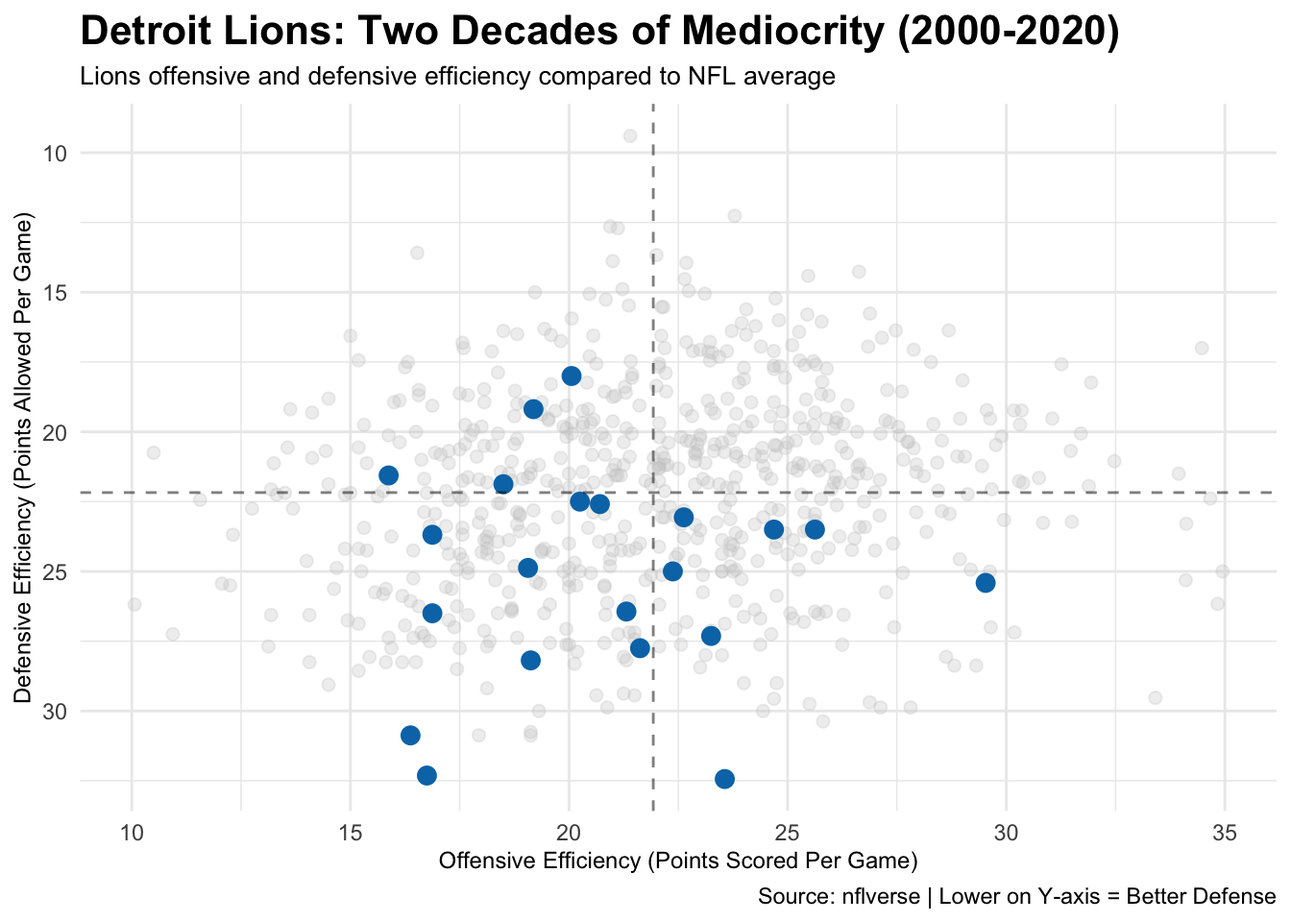
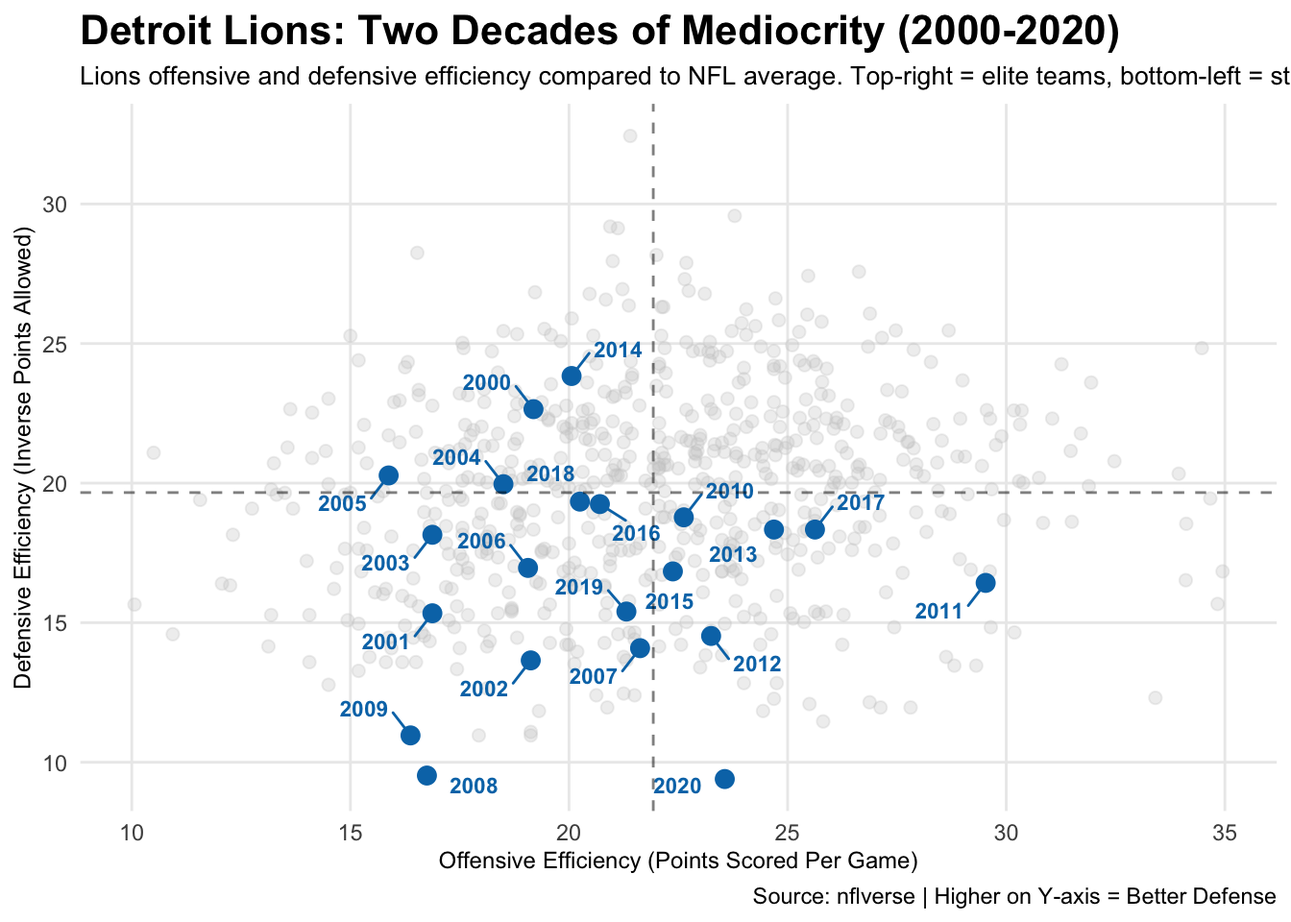
DanTest2

diff --git a/posts/DetroitLions/index.html b/posts/DetroitLions/index.html
@@ -225,79 +225,94 @@ pre > code.sourceCode > span > a:first-child::before { text-decoration: underlin
 </div>
 <details class="code-fold">
 <summary>Code</summary>
-<div class="sourceCode cell-code" id="cb5"><pre class="sourceCode r code-with-copy"><code class="sourceCode r"><span id="cb5-1"><a href="#cb5-1" aria-hidden="true" tabindex="-1"></a><span class="co"># Load schedules data for all seasons</span></span>
-<span id="cb5-2"><a href="#cb5-2" aria-hidden="true" tabindex="-1"></a>pre_campbell <span class="ot">&lt;-</span> <span class="fu">load_schedules</span>(<span class="dv">2000</span><span class="sc">:</span><span class="dv">2020</span>)</span>
-<span id="cb5-3"><a href="#cb5-3" aria-hidden="true" tabindex="-1"></a>campbell_era <span class="ot">&lt;-</span> <span class="fu">load_schedules</span>(<span class="dv">2021</span><span class="sc">:</span><span class="dv">2024</span>)</span>
-<span id="cb5-4"><a href="#cb5-4" aria-hidden="true" tabindex="-1"></a></span>
-<span id="cb5-5"><a href="#cb5-5" aria-hidden="true" tabindex="-1"></a><span class="co"># Function to calculate offensive and defensive efficiency</span></span>
-<span id="cb5-6"><a href="#cb5-6" aria-hidden="true" tabindex="-1"></a>calculate_efficiency <span class="ot">&lt;-</span> <span class="cf">function</span>(schedules_data) {</span>
-<span id="cb5-7"><a href="#cb5-7" aria-hidden="true" tabindex="-1"></a>  <span class="co"># Home team stats</span></span>
-<span id="cb5-8"><a href="#cb5-8" aria-hidden="true" tabindex="-1"></a>  home_stats <span class="ot">&lt;-</span> schedules_data <span class="sc">|&gt;</span></span>
-<span id="cb5-9"><a href="#cb5-9" aria-hidden="true" tabindex="-1"></a>    <span class="fu">select</span>(season, <span class="at">team =</span> home_team, </span>
-<span id="cb5-10"><a href="#cb5-10" aria-hidden="true" tabindex="-1"></a>           <span class="at">points_scored =</span> home_score, </span>
-<span id="cb5-11"><a href="#cb5-11" aria-hidden="true" tabindex="-1"></a>           <span class="at">points_allowed =</span> away_score) <span class="sc">|&gt;</span></span>
-<span id="cb5-12"><a href="#cb5-12" aria-hidden="true" tabindex="-1"></a>    <span class="fu">filter</span>(<span class="sc">!</span><span class="fu">is.na</span>(points_scored))</span>
-<span id="cb5-13"><a href="#cb5-13" aria-hidden="true" tabindex="-1"></a>  </span>
-<span id="cb5-14"><a href="#cb5-14" aria-hidden="true" tabindex="-1"></a>  <span class="co"># Away team stats</span></span>
-<span id="cb5-15"><a href="#cb5-15" aria-hidden="true" tabindex="-1"></a>  away_stats <span class="ot">&lt;-</span> schedules_data <span class="sc">|&gt;</span></span>
-<span id="cb5-16"><a href="#cb5-16" aria-hidden="true" tabindex="-1"></a>    <span class="fu">select</span>(season, <span class="at">team =</span> away_team, </span>
-<span id="cb5-17"><a href="#cb5-17" aria-hidden="true" tabindex="-1"></a>           <span class="at">points_scored =</span> away_score, </span>
-<span id="cb5-18"><a href="#cb5-18" aria-hidden="true" tabindex="-1"></a>           <span class="at">points_allowed =</span> home_score) <span class="sc">|&gt;</span></span>
-<span id="cb5-19"><a href="#cb5-19" aria-hidden="true" tabindex="-1"></a>    <span class="fu">filter</span>(<span class="sc">!</span><span class="fu">is.na</span>(points_scored))</span>
-<span id="cb5-20"><a href="#cb5-20" aria-hidden="true" tabindex="-1"></a>  </span>
-<span id="cb5-21"><a href="#cb5-21" aria-hidden="true" tabindex="-1"></a>  <span class="co"># Combine and calculate season averages</span></span>
-<span id="cb5-22"><a href="#cb5-22" aria-hidden="true" tabindex="-1"></a>  combined_stats <span class="ot">&lt;-</span> <span class="fu">bind_rows</span>(home_stats, away_stats) <span class="sc">|&gt;</span></span>
-<span id="cb5-23"><a href="#cb5-23" aria-hidden="true" tabindex="-1"></a>    <span class="fu">group_by</span>(season, team) <span class="sc">|&gt;</span></span>
-<span id="cb5-24"><a href="#cb5-24" aria-hidden="true" tabindex="-1"></a>    <span class="fu">summarise</span>(</span>
-<span id="cb5-25"><a href="#cb5-25" aria-hidden="true" tabindex="-1"></a>      <span class="at">offensive_efficiency =</span> <span class="fu">mean</span>(points_scored, <span class="at">na.rm =</span> <span class="cn">TRUE</span>),</span>
-<span id="cb5-26"><a href="#cb5-26" aria-hidden="true" tabindex="-1"></a>      <span class="at">defensive_efficiency =</span> <span class="fu">mean</span>(points_allowed, <span class="at">na.rm =</span> <span class="cn">TRUE</span>),</span>
-<span id="cb5-27"><a href="#cb5-27" aria-hidden="true" tabindex="-1"></a>      <span class="at">.groups =</span> <span class="st">"drop"</span></span>
-<span id="cb5-28"><a href="#cb5-28" aria-hidden="true" tabindex="-1"></a>    )</span>
-<span id="cb5-29"><a href="#cb5-29" aria-hidden="true" tabindex="-1"></a>  </span>
-<span id="cb5-30"><a href="#cb5-30" aria-hidden="true" tabindex="-1"></a>  <span class="fu">return</span>(combined_stats)</span>
-<span id="cb5-31"><a href="#cb5-31" aria-hidden="true" tabindex="-1"></a>}</span>
-<span id="cb5-32"><a href="#cb5-32" aria-hidden="true" tabindex="-1"></a></span>
-<span id="cb5-33"><a href="#cb5-33" aria-hidden="true" tabindex="-1"></a><span class="co"># Calculate for both eras</span></span>
-<span id="cb5-34"><a href="#cb5-34" aria-hidden="true" tabindex="-1"></a>pre_campbell_stats <span class="ot">&lt;-</span> <span class="fu">calculate_efficiency</span>(pre_campbell)</span>
-<span id="cb5-35"><a href="#cb5-35" aria-hidden="true" tabindex="-1"></a>campbell_stats <span class="ot">&lt;-</span> <span class="fu">calculate_efficiency</span>(campbell_era)</span>
-<span id="cb5-36"><a href="#cb5-36" aria-hidden="true" tabindex="-1"></a></span>
-<span id="cb5-37"><a href="#cb5-37" aria-hidden="true" tabindex="-1"></a><span class="co"># Create highlight datasets for Lions</span></span>
-<span id="cb5-38"><a href="#cb5-38" aria-hidden="true" tabindex="-1"></a>lions_pre <span class="ot">&lt;-</span> pre_campbell_stats <span class="sc">|&gt;</span> <span class="fu">filter</span>(team <span class="sc">==</span> <span class="st">"DET"</span>)</span>
-<span id="cb5-39"><a href="#cb5-39" aria-hidden="true" tabindex="-1"></a>lions_campbell <span class="ot">&lt;-</span> campbell_stats <span class="sc">|&gt;</span> <span class="fu">filter</span>(team <span class="sc">==</span> <span class="st">"DET"</span>)</span>
-<span id="cb5-40"><a href="#cb5-40" aria-hidden="true" tabindex="-1"></a></span>
-<span id="cb5-41"><a href="#cb5-41" aria-hidden="true" tabindex="-1"></a><span class="co"># Graph 1: Pre-Campbell Era (2000-2020)</span></span>
-<span id="cb5-42"><a href="#cb5-42" aria-hidden="true" tabindex="-1"></a><span class="fu">ggplot</span>() <span class="sc">+</span></span>
-<span id="cb5-43"><a href="#cb5-43" aria-hidden="true" tabindex="-1"></a>  <span class="fu">geom_point</span>(</span>
-<span id="cb5-44"><a href="#cb5-44" aria-hidden="true" tabindex="-1"></a>    <span class="at">data =</span> pre_campbell_stats,</span>
-<span id="cb5-45"><a href="#cb5-45" aria-hidden="true" tabindex="-1"></a>    <span class="fu">aes</span>(<span class="at">x =</span> offensive_efficiency, <span class="at">y =</span> defensive_efficiency),</span>
-<span id="cb5-46"><a href="#cb5-46" aria-hidden="true" tabindex="-1"></a>    <span class="at">color =</span> <span class="st">"grey80"</span>,</span>
-<span id="cb5-47"><a href="#cb5-47" aria-hidden="true" tabindex="-1"></a>    <span class="at">alpha =</span> <span class="fl">0.3</span>,</span>
-<span id="cb5-48"><a href="#cb5-48" aria-hidden="true" tabindex="-1"></a>    <span class="at">size =</span> <span class="dv">2</span></span>
-<span id="cb5-49"><a href="#cb5-49" aria-hidden="true" tabindex="-1"></a>  ) <span class="sc">+</span></span>
-<span id="cb5-50"><a href="#cb5-50" aria-hidden="true" tabindex="-1"></a>  <span class="fu">geom_point</span>(</span>
-<span id="cb5-51"><a href="#cb5-51" aria-hidden="true" tabindex="-1"></a>    <span class="at">data =</span> lions_pre,</span>
-<span id="cb5-52"><a href="#cb5-52" aria-hidden="true" tabindex="-1"></a>    <span class="fu">aes</span>(<span class="at">x =</span> offensive_efficiency, <span class="at">y =</span> defensive_efficiency),</span>
-<span id="cb5-53"><a href="#cb5-53" aria-hidden="true" tabindex="-1"></a>    <span class="at">color =</span> <span class="st">"#0076B6"</span>,</span>
-<span id="cb5-54"><a href="#cb5-54" aria-hidden="true" tabindex="-1"></a>    <span class="at">size =</span> <span class="dv">3</span></span>
+<div class="sourceCode cell-code" id="cb5"><pre class="sourceCode r code-with-copy"><code class="sourceCode r"><span id="cb5-1"><a href="#cb5-1" aria-hidden="true" tabindex="-1"></a><span class="fu">library</span>(ggrepel)  <span class="co"># For non-overlapping labels</span></span>
+<span id="cb5-2"><a href="#cb5-2" aria-hidden="true" tabindex="-1"></a></span>
+<span id="cb5-3"><a href="#cb5-3" aria-hidden="true" tabindex="-1"></a><span class="co"># Load schedules data for all seasons</span></span>
+<span id="cb5-4"><a href="#cb5-4" aria-hidden="true" tabindex="-1"></a>pre_campbell <span class="ot">&lt;-</span> <span class="fu">load_schedules</span>(<span class="dv">2000</span><span class="sc">:</span><span class="dv">2020</span>)</span>
+<span id="cb5-5"><a href="#cb5-5" aria-hidden="true" tabindex="-1"></a>campbell_era <span class="ot">&lt;-</span> <span class="fu">load_schedules</span>(<span class="dv">2021</span><span class="sc">:</span><span class="dv">2024</span>)</span>
+<span id="cb5-6"><a href="#cb5-6" aria-hidden="true" tabindex="-1"></a></span>
+<span id="cb5-7"><a href="#cb5-7" aria-hidden="true" tabindex="-1"></a><span class="co"># Function to calculate offensive and defensive efficiency</span></span>
+<span id="cb5-8"><a href="#cb5-8" aria-hidden="true" tabindex="-1"></a>calculate_efficiency <span class="ot">&lt;-</span> <span class="cf">function</span>(schedules_data) {</span>
+<span id="cb5-9"><a href="#cb5-9" aria-hidden="true" tabindex="-1"></a>  <span class="co"># Home team stats</span></span>
+<span id="cb5-10"><a href="#cb5-10" aria-hidden="true" tabindex="-1"></a>  home_stats <span class="ot">&lt;-</span> schedules_data <span class="sc">|&gt;</span></span>
+<span id="cb5-11"><a href="#cb5-11" aria-hidden="true" tabindex="-1"></a>    <span class="fu">select</span>(season, <span class="at">team =</span> home_team, </span>
+<span id="cb5-12"><a href="#cb5-12" aria-hidden="true" tabindex="-1"></a>           <span class="at">points_scored =</span> home_score, </span>
+<span id="cb5-13"><a href="#cb5-13" aria-hidden="true" tabindex="-1"></a>           <span class="at">points_allowed =</span> away_score) <span class="sc">|&gt;</span></span>
+<span id="cb5-14"><a href="#cb5-14" aria-hidden="true" tabindex="-1"></a>    <span class="fu">filter</span>(<span class="sc">!</span><span class="fu">is.na</span>(points_scored))</span>
+<span id="cb5-15"><a href="#cb5-15" aria-hidden="true" tabindex="-1"></a>  </span>
+<span id="cb5-16"><a href="#cb5-16" aria-hidden="true" tabindex="-1"></a>  <span class="co"># Away team stats</span></span>
+<span id="cb5-17"><a href="#cb5-17" aria-hidden="true" tabindex="-1"></a>  away_stats <span class="ot">&lt;-</span> schedules_data <span class="sc">|&gt;</span></span>
+<span id="cb5-18"><a href="#cb5-18" aria-hidden="true" tabindex="-1"></a>    <span class="fu">select</span>(season, <span class="at">team =</span> away_team, </span>
+<span id="cb5-19"><a href="#cb5-19" aria-hidden="true" tabindex="-1"></a>           <span class="at">points_scored =</span> away_score, </span>
+<span id="cb5-20"><a href="#cb5-20" aria-hidden="true" tabindex="-1"></a>           <span class="at">points_allowed =</span> home_score) <span class="sc">|&gt;</span></span>
+<span id="cb5-21"><a href="#cb5-21" aria-hidden="true" tabindex="-1"></a>    <span class="fu">filter</span>(<span class="sc">!</span><span class="fu">is.na</span>(points_scored))</span>
+<span id="cb5-22"><a href="#cb5-22" aria-hidden="true" tabindex="-1"></a>  </span>
+<span id="cb5-23"><a href="#cb5-23" aria-hidden="true" tabindex="-1"></a>  <span class="co"># Combine and calculate season averages</span></span>
+<span id="cb5-24"><a href="#cb5-24" aria-hidden="true" tabindex="-1"></a>  combined_stats <span class="ot">&lt;-</span> <span class="fu">bind_rows</span>(home_stats, away_stats) <span class="sc">|&gt;</span></span>
+<span id="cb5-25"><a href="#cb5-25" aria-hidden="true" tabindex="-1"></a>    <span class="fu">group_by</span>(season, team) <span class="sc">|&gt;</span></span>
+<span id="cb5-26"><a href="#cb5-26" aria-hidden="true" tabindex="-1"></a>    <span class="fu">summarise</span>(</span>
+<span id="cb5-27"><a href="#cb5-27" aria-hidden="true" tabindex="-1"></a>      <span class="at">offensive_efficiency =</span> <span class="fu">mean</span>(points_scored, <span class="at">na.rm =</span> <span class="cn">TRUE</span>),</span>
+<span id="cb5-28"><a href="#cb5-28" aria-hidden="true" tabindex="-1"></a>      <span class="at">points_allowed =</span> <span class="fu">mean</span>(points_allowed, <span class="at">na.rm =</span> <span class="cn">TRUE</span>),</span>
+<span id="cb5-29"><a href="#cb5-29" aria-hidden="true" tabindex="-1"></a>      <span class="at">.groups =</span> <span class="st">"drop"</span></span>
+<span id="cb5-30"><a href="#cb5-30" aria-hidden="true" tabindex="-1"></a>    ) <span class="sc">|&gt;</span></span>
+<span id="cb5-31"><a href="#cb5-31" aria-hidden="true" tabindex="-1"></a>    <span class="fu">mutate</span>(</span>
+<span id="cb5-32"><a href="#cb5-32" aria-hidden="true" tabindex="-1"></a>      <span class="co"># Flip defensive efficiency: higher = better (inverse of points allowed)</span></span>
+<span id="cb5-33"><a href="#cb5-33" aria-hidden="true" tabindex="-1"></a>      <span class="at">defensive_efficiency =</span> <span class="fu">max</span>(points_allowed) <span class="sc">-</span> points_allowed <span class="sc">+</span> <span class="fu">min</span>(points_allowed)</span>
+<span id="cb5-34"><a href="#cb5-34" aria-hidden="true" tabindex="-1"></a>    )</span>
+<span id="cb5-35"><a href="#cb5-35" aria-hidden="true" tabindex="-1"></a>  </span>
+<span id="cb5-36"><a href="#cb5-36" aria-hidden="true" tabindex="-1"></a>  <span class="fu">return</span>(combined_stats)</span>
+<span id="cb5-37"><a href="#cb5-37" aria-hidden="true" tabindex="-1"></a>}</span>
+<span id="cb5-38"><a href="#cb5-38" aria-hidden="true" tabindex="-1"></a></span>
+<span id="cb5-39"><a href="#cb5-39" aria-hidden="true" tabindex="-1"></a><span class="co"># Calculate for both eras</span></span>
+<span id="cb5-40"><a href="#cb5-40" aria-hidden="true" tabindex="-1"></a>pre_campbell_stats <span class="ot">&lt;-</span> <span class="fu">calculate_efficiency</span>(pre_campbell)</span>
+<span id="cb5-41"><a href="#cb5-41" aria-hidden="true" tabindex="-1"></a>campbell_stats <span class="ot">&lt;-</span> <span class="fu">calculate_efficiency</span>(campbell_era)</span>
+<span id="cb5-42"><a href="#cb5-42" aria-hidden="true" tabindex="-1"></a></span>
+<span id="cb5-43"><a href="#cb5-43" aria-hidden="true" tabindex="-1"></a><span class="co"># Create highlight datasets for Lions</span></span>
+<span id="cb5-44"><a href="#cb5-44" aria-hidden="true" tabindex="-1"></a>lions_pre <span class="ot">&lt;-</span> pre_campbell_stats <span class="sc">|&gt;</span> <span class="fu">filter</span>(team <span class="sc">==</span> <span class="st">"DET"</span>)</span>
+<span id="cb5-45"><a href="#cb5-45" aria-hidden="true" tabindex="-1"></a>lions_campbell <span class="ot">&lt;-</span> campbell_stats <span class="sc">|&gt;</span> <span class="fu">filter</span>(team <span class="sc">==</span> <span class="st">"DET"</span>)</span>
+<span id="cb5-46"><a href="#cb5-46" aria-hidden="true" tabindex="-1"></a></span>
+<span id="cb5-47"><a href="#cb5-47" aria-hidden="true" tabindex="-1"></a><span class="co"># Graph 1: Pre-Campbell Era (2000-2020)</span></span>
+<span id="cb5-48"><a href="#cb5-48" aria-hidden="true" tabindex="-1"></a><span class="fu">ggplot</span>() <span class="sc">+</span></span>
+<span id="cb5-49"><a href="#cb5-49" aria-hidden="true" tabindex="-1"></a>  <span class="fu">geom_point</span>(</span>
+<span id="cb5-50"><a href="#cb5-50" aria-hidden="true" tabindex="-1"></a>    <span class="at">data =</span> pre_campbell_stats,</span>
+<span id="cb5-51"><a href="#cb5-51" aria-hidden="true" tabindex="-1"></a>    <span class="fu">aes</span>(<span class="at">x =</span> offensive_efficiency, <span class="at">y =</span> defensive_efficiency),</span>
+<span id="cb5-52"><a href="#cb5-52" aria-hidden="true" tabindex="-1"></a>    <span class="at">color =</span> <span class="st">"grey80"</span>,</span>
+<span id="cb5-53"><a href="#cb5-53" aria-hidden="true" tabindex="-1"></a>    <span class="at">alpha =</span> <span class="fl">0.3</span>,</span>
+<span id="cb5-54"><a href="#cb5-54" aria-hidden="true" tabindex="-1"></a>    <span class="at">size =</span> <span class="dv">2</span></span>
 <span id="cb5-55"><a href="#cb5-55" aria-hidden="true" tabindex="-1"></a>  ) <span class="sc">+</span></span>
-<span id="cb5-56"><a href="#cb5-56" aria-hidden="true" tabindex="-1"></a>  <span class="fu">geom_hline</span>(<span class="at">yintercept =</span> <span class="fu">mean</span>(pre_campbell_stats<span class="sc">$</span>defensive_efficiency), </span>
-<span id="cb5-57"><a href="#cb5-57" aria-hidden="true" tabindex="-1"></a>             <span class="at">linetype =</span> <span class="st">"dashed"</span>, <span class="at">color =</span> <span class="st">"black"</span>, <span class="at">alpha =</span> <span class="fl">0.5</span>) <span class="sc">+</span></span>
-<span id="cb5-58"><a href="#cb5-58" aria-hidden="true" tabindex="-1"></a>  <span class="fu">geom_vline</span>(<span class="at">xintercept =</span> <span class="fu">mean</span>(pre_campbell_stats<span class="sc">$</span>offensive_efficiency), </span>
-<span id="cb5-59"><a href="#cb5-59" aria-hidden="true" tabindex="-1"></a>             <span class="at">linetype =</span> <span class="st">"dashed"</span>, <span class="at">color =</span> <span class="st">"black"</span>, <span class="at">alpha =</span> <span class="fl">0.5</span>) <span class="sc">+</span></span>
-<span id="cb5-60"><a href="#cb5-60" aria-hidden="true" tabindex="-1"></a>  <span class="fu">scale_y_reverse</span>() <span class="sc">+</span>  <span class="co"># Lower points allowed = better defense (top of chart)</span></span>
-<span id="cb5-61"><a href="#cb5-61" aria-hidden="true" tabindex="-1"></a>  <span class="fu">labs</span>(</span>
-<span id="cb5-62"><a href="#cb5-62" aria-hidden="true" tabindex="-1"></a>    <span class="at">title =</span> <span class="st">"Detroit Lions: Two Decades of Mediocrity (2000-2020)"</span>,</span>
-<span id="cb5-63"><a href="#cb5-63" aria-hidden="true" tabindex="-1"></a>    <span class="at">subtitle =</span> <span class="st">"Lions offensive and defensive efficiency compared to NFL average"</span>,</span>
-<span id="cb5-64"><a href="#cb5-64" aria-hidden="true" tabindex="-1"></a>    <span class="at">x =</span> <span class="st">"Offensive Efficiency (Points Scored Per Game)"</span>,</span>
-<span id="cb5-65"><a href="#cb5-65" aria-hidden="true" tabindex="-1"></a>    <span class="at">y =</span> <span class="st">"Defensive Efficiency (Points Allowed Per Game)"</span>,</span>
-<span id="cb5-66"><a href="#cb5-66" aria-hidden="true" tabindex="-1"></a>    <span class="at">caption =</span> <span class="st">"Source: nflverse | Lower on Y-axis = Better Defense"</span></span>
-<span id="cb5-67"><a href="#cb5-67" aria-hidden="true" tabindex="-1"></a>  ) <span class="sc">+</span></span>
-<span id="cb5-68"><a href="#cb5-68" aria-hidden="true" tabindex="-1"></a>  <span class="fu">theme_minimal</span>() <span class="sc">+</span></span>
-<span id="cb5-69"><a href="#cb5-69" aria-hidden="true" tabindex="-1"></a>  <span class="fu">theme</span>(</span>
-<span id="cb5-70"><a href="#cb5-70" aria-hidden="true" tabindex="-1"></a>    <span class="at">plot.title =</span> <span class="fu">element_text</span>(<span class="at">size =</span> <span class="dv">16</span>, <span class="at">face =</span> <span class="st">"bold"</span>),</span>
-<span id="cb5-71"><a href="#cb5-71" aria-hidden="true" tabindex="-1"></a>    <span class="at">plot.subtitle =</span> <span class="fu">element_text</span>(<span class="at">size =</span> <span class="dv">10</span>),</span>
-<span id="cb5-72"><a href="#cb5-72" aria-hidden="true" tabindex="-1"></a>    <span class="at">axis.title =</span> <span class="fu">element_text</span>(<span class="at">size =</span> <span class="dv">9</span>)</span>
-<span id="cb5-73"><a href="#cb5-73" aria-hidden="true" tabindex="-1"></a>  )</span></code><button title="Copy to Clipboard" class="code-copy-button"><i class="bi"></i></button></pre></div>
+<span id="cb5-56"><a href="#cb5-56" aria-hidden="true" tabindex="-1"></a>  <span class="fu">geom_point</span>(</span>
+<span id="cb5-57"><a href="#cb5-57" aria-hidden="true" tabindex="-1"></a>    <span class="at">data =</span> lions_pre,</span>
+<span id="cb5-58"><a href="#cb5-58" aria-hidden="true" tabindex="-1"></a>    <span class="fu">aes</span>(<span class="at">x =</span> offensive_efficiency, <span class="at">y =</span> defensive_efficiency),</span>
+<span id="cb5-59"><a href="#cb5-59" aria-hidden="true" tabindex="-1"></a>    <span class="at">color =</span> <span class="st">"#0076B6"</span>,</span>
+<span id="cb5-60"><a href="#cb5-60" aria-hidden="true" tabindex="-1"></a>    <span class="at">size =</span> <span class="dv">3</span></span>
+<span id="cb5-61"><a href="#cb5-61" aria-hidden="true" tabindex="-1"></a>  ) <span class="sc">+</span></span>
+<span id="cb5-62"><a href="#cb5-62" aria-hidden="true" tabindex="-1"></a>  <span class="fu">geom_text_repel</span>(</span>
+<span id="cb5-63"><a href="#cb5-63" aria-hidden="true" tabindex="-1"></a>    <span class="at">data =</span> lions_pre,</span>
+<span id="cb5-64"><a href="#cb5-64" aria-hidden="true" tabindex="-1"></a>    <span class="fu">aes</span>(<span class="at">x =</span> offensive_efficiency, <span class="at">y =</span> defensive_efficiency, <span class="at">label =</span> season),</span>
+<span id="cb5-65"><a href="#cb5-65" aria-hidden="true" tabindex="-1"></a>    <span class="at">color =</span> <span class="st">"#0076B6"</span>,</span>
+<span id="cb5-66"><a href="#cb5-66" aria-hidden="true" tabindex="-1"></a>    <span class="at">size =</span> <span class="dv">3</span>,</span>
+<span id="cb5-67"><a href="#cb5-67" aria-hidden="true" tabindex="-1"></a>    <span class="at">fontface =</span> <span class="st">"bold"</span>,</span>
+<span id="cb5-68"><a href="#cb5-68" aria-hidden="true" tabindex="-1"></a>    <span class="at">box.padding =</span> <span class="fl">0.5</span>,</span>
+<span id="cb5-69"><a href="#cb5-69" aria-hidden="true" tabindex="-1"></a>    <span class="at">point.padding =</span> <span class="fl">0.3</span></span>
+<span id="cb5-70"><a href="#cb5-70" aria-hidden="true" tabindex="-1"></a>  ) <span class="sc">+</span></span>
+<span id="cb5-71"><a href="#cb5-71" aria-hidden="true" tabindex="-1"></a>  <span class="fu">geom_hline</span>(<span class="at">yintercept =</span> <span class="fu">mean</span>(pre_campbell_stats<span class="sc">$</span>defensive_efficiency), </span>
+<span id="cb5-72"><a href="#cb5-72" aria-hidden="true" tabindex="-1"></a>             <span class="at">linetype =</span> <span class="st">"dashed"</span>, <span class="at">color =</span> <span class="st">"black"</span>, <span class="at">alpha =</span> <span class="fl">0.5</span>) <span class="sc">+</span></span>
+<span id="cb5-73"><a href="#cb5-73" aria-hidden="true" tabindex="-1"></a>  <span class="fu">geom_vline</span>(<span class="at">xintercept =</span> <span class="fu">mean</span>(pre_campbell_stats<span class="sc">$</span>offensive_efficiency), </span>
+<span id="cb5-74"><a href="#cb5-74" aria-hidden="true" tabindex="-1"></a>             <span class="at">linetype =</span> <span class="st">"dashed"</span>, <span class="at">color =</span> <span class="st">"black"</span>, <span class="at">alpha =</span> <span class="fl">0.5</span>) <span class="sc">+</span></span>
+<span id="cb5-75"><a href="#cb5-75" aria-hidden="true" tabindex="-1"></a>  <span class="fu">labs</span>(</span>
+<span id="cb5-76"><a href="#cb5-76" aria-hidden="true" tabindex="-1"></a>    <span class="at">title =</span> <span class="st">"Detroit Lions: Two Decades of Mediocrity (2000-2020)"</span>,</span>
+<span id="cb5-77"><a href="#cb5-77" aria-hidden="true" tabindex="-1"></a>    <span class="at">subtitle =</span> <span class="st">"Lions offensive and defensive efficiency compared to NFL average. Top-right = elite teams, bottom-left = struggling teams."</span>,</span>
+<span id="cb5-78"><a href="#cb5-78" aria-hidden="true" tabindex="-1"></a>    <span class="at">x =</span> <span class="st">"Offensive Efficiency (Points Scored Per Game)"</span>,</span>
+<span id="cb5-79"><a href="#cb5-79" aria-hidden="true" tabindex="-1"></a>    <span class="at">y =</span> <span class="st">"Defensive Efficiency (Inverse Points Allowed)"</span>,</span>
+<span id="cb5-80"><a href="#cb5-80" aria-hidden="true" tabindex="-1"></a>    <span class="at">caption =</span> <span class="st">"Source: nflverse | Higher on Y-axis = Better Defense"</span></span>
+<span id="cb5-81"><a href="#cb5-81" aria-hidden="true" tabindex="-1"></a>  ) <span class="sc">+</span></span>
+<span id="cb5-82"><a href="#cb5-82" aria-hidden="true" tabindex="-1"></a>  <span class="fu">theme_minimal</span>() <span class="sc">+</span></span>
+<span id="cb5-83"><a href="#cb5-83" aria-hidden="true" tabindex="-1"></a>  <span class="fu">theme</span>(</span>
+<span id="cb5-84"><a href="#cb5-84" aria-hidden="true" tabindex="-1"></a>    <span class="at">plot.title =</span> <span class="fu">element_text</span>(<span class="at">size =</span> <span class="dv">16</span>, <span class="at">face =</span> <span class="st">"bold"</span>),</span>
+<span id="cb5-85"><a href="#cb5-85" aria-hidden="true" tabindex="-1"></a>    <span class="at">plot.subtitle =</span> <span class="fu">element_text</span>(<span class="at">size =</span> <span class="dv">10</span>),</span>
+<span id="cb5-86"><a href="#cb5-86" aria-hidden="true" tabindex="-1"></a>    <span class="at">axis.title =</span> <span class="fu">element_text</span>(<span class="at">size =</span> <span class="dv">9</span>),</span>
+<span id="cb5-87"><a href="#cb5-87" aria-hidden="true" tabindex="-1"></a>    <span class="at">panel.grid.minor =</span> <span class="fu">element_blank</span>()</span>
+<span id="cb5-88"><a href="#cb5-88" aria-hidden="true" tabindex="-1"></a>  )</span></code><button title="Copy to Clipboard" class="code-copy-button"><i class="bi"></i></button></pre></div>
 </details>
 <div class="cell-output-display">
 <div>
@@ -323,24 +338,33 @@ pre > code.sourceCode > span > a:first-child::before { text-decoration: underlin
 <span id="cb6-13"><a href="#cb6-13" aria-hidden="true" tabindex="-1"></a>    <span class="at">color =</span> <span class="st">"#0076B6"</span>,</span>
 <span id="cb6-14"><a href="#cb6-14" aria-hidden="true" tabindex="-1"></a>    <span class="at">size =</span> <span class="dv">3</span></span>
 <span id="cb6-15"><a href="#cb6-15" aria-hidden="true" tabindex="-1"></a>  ) <span class="sc">+</span></span>
-<span id="cb6-16"><a href="#cb6-16" aria-hidden="true" tabindex="-1"></a>  <span class="fu">geom_hline</span>(<span class="at">yintercept =</span> <span class="fu">mean</span>(campbell_stats<span class="sc">$</span>defensive_efficiency), </span>
-<span id="cb6-17"><a href="#cb6-17" aria-hidden="true" tabindex="-1"></a>             <span class="at">linetype =</span> <span class="st">"dashed"</span>, <span class="at">color =</span> <span class="st">"black"</span>, <span class="at">alpha =</span> <span class="fl">0.5</span>) <span class="sc">+</span></span>
-<span id="cb6-18"><a href="#cb6-18" aria-hidden="true" tabindex="-1"></a>  <span class="fu">geom_vline</span>(<span class="at">xintercept =</span> <span class="fu">mean</span>(campbell_stats<span class="sc">$</span>offensive_efficiency), </span>
-<span id="cb6-19"><a href="#cb6-19" aria-hidden="true" tabindex="-1"></a>             <span class="at">linetype =</span> <span class="st">"dashed"</span>, <span class="at">color =</span> <span class="st">"black"</span>, <span class="at">alpha =</span> <span class="fl">0.5</span>) <span class="sc">+</span></span>
-<span id="cb6-20"><a href="#cb6-20" aria-hidden="true" tabindex="-1"></a>  <span class="fu">scale_y_reverse</span>() <span class="sc">+</span></span>
-<span id="cb6-21"><a href="#cb6-21" aria-hidden="true" tabindex="-1"></a>  <span class="fu">labs</span>(</span>
-<span id="cb6-22"><a href="#cb6-22" aria-hidden="true" tabindex="-1"></a>    <span class="at">title =</span> <span class="st">"The Dan Campbell Transformation (2021-2024)"</span>,</span>
-<span id="cb6-23"><a href="#cb6-23" aria-hidden="true" tabindex="-1"></a>    <span class="at">subtitle =</span> <span class="st">"Lions offensive and defensive efficiency compared to NFL average"</span>,</span>
-<span id="cb6-24"><a href="#cb6-24" aria-hidden="true" tabindex="-1"></a>    <span class="at">x =</span> <span class="st">"Offensive Efficiency (Points Scored Per Game)"</span>,</span>
-<span id="cb6-25"><a href="#cb6-25" aria-hidden="true" tabindex="-1"></a>    <span class="at">y =</span> <span class="st">"Defensive Efficiency (Points Allowed Per Game)"</span>,</span>
-<span id="cb6-26"><a href="#cb6-26" aria-hidden="true" tabindex="-1"></a>    <span class="at">caption =</span> <span class="st">"Source: nflverse | Lower on Y-axis = Better Defense"</span></span>
-<span id="cb6-27"><a href="#cb6-27" aria-hidden="true" tabindex="-1"></a>  ) <span class="sc">+</span></span>
-<span id="cb6-28"><a href="#cb6-28" aria-hidden="true" tabindex="-1"></a>  <span class="fu">theme_minimal</span>() <span class="sc">+</span></span>
-<span id="cb6-29"><a href="#cb6-29" aria-hidden="true" tabindex="-1"></a>  <span class="fu">theme</span>(</span>
-<span id="cb6-30"><a href="#cb6-30" aria-hidden="true" tabindex="-1"></a>    <span class="at">plot.title =</span> <span class="fu">element_text</span>(<span class="at">size =</span> <span class="dv">16</span>, <span class="at">face =</span> <span class="st">"bold"</span>),</span>
-<span id="cb6-31"><a href="#cb6-31" aria-hidden="true" tabindex="-1"></a>    <span class="at">plot.subtitle =</span> <span class="fu">element_text</span>(<span class="at">size =</span> <span class="dv">10</span>),</span>
-<span id="cb6-32"><a href="#cb6-32" aria-hidden="true" tabindex="-1"></a>    <span class="at">axis.title =</span> <span class="fu">element_text</span>(<span class="at">size =</span> <span class="dv">9</span>)</span>
-<span id="cb6-33"><a href="#cb6-33" aria-hidden="true" tabindex="-1"></a>  )</span></code><button title="Copy to Clipboard" class="code-copy-button"><i class="bi"></i></button></pre></div>
+<span id="cb6-16"><a href="#cb6-16" aria-hidden="true" tabindex="-1"></a>  <span class="fu">geom_text_repel</span>(</span>
+<span id="cb6-17"><a href="#cb6-17" aria-hidden="true" tabindex="-1"></a>    <span class="at">data =</span> lions_campbell,</span>
+<span id="cb6-18"><a href="#cb6-18" aria-hidden="true" tabindex="-1"></a>    <span class="fu">aes</span>(<span class="at">x =</span> offensive_efficiency, <span class="at">y =</span> defensive_efficiency, <span class="at">label =</span> season),</span>
+<span id="cb6-19"><a href="#cb6-19" aria-hidden="true" tabindex="-1"></a>    <span class="at">color =</span> <span class="st">"#0076B6"</span>,</span>
+<span id="cb6-20"><a href="#cb6-20" aria-hidden="true" tabindex="-1"></a>    <span class="at">size =</span> <span class="fl">3.5</span>,</span>
+<span id="cb6-21"><a href="#cb6-21" aria-hidden="true" tabindex="-1"></a>    <span class="at">fontface =</span> <span class="st">"bold"</span>,</span>
+<span id="cb6-22"><a href="#cb6-22" aria-hidden="true" tabindex="-1"></a>    <span class="at">box.padding =</span> <span class="fl">0.5</span>,</span>
+<span id="cb6-23"><a href="#cb6-23" aria-hidden="true" tabindex="-1"></a>    <span class="at">point.padding =</span> <span class="fl">0.3</span></span>
+<span id="cb6-24"><a href="#cb6-24" aria-hidden="true" tabindex="-1"></a>  ) <span class="sc">+</span></span>
+<span id="cb6-25"><a href="#cb6-25" aria-hidden="true" tabindex="-1"></a>  <span class="fu">geom_hline</span>(<span class="at">yintercept =</span> <span class="fu">mean</span>(campbell_stats<span class="sc">$</span>defensive_efficiency), </span>
+<span id="cb6-26"><a href="#cb6-26" aria-hidden="true" tabindex="-1"></a>             <span class="at">linetype =</span> <span class="st">"dashed"</span>, <span class="at">color =</span> <span class="st">"black"</span>, <span class="at">alpha =</span> <span class="fl">0.5</span>) <span class="sc">+</span></span>
+<span id="cb6-27"><a href="#cb6-27" aria-hidden="true" tabindex="-1"></a>  <span class="fu">geom_vline</span>(<span class="at">xintercept =</span> <span class="fu">mean</span>(campbell_stats<span class="sc">$</span>offensive_efficiency), </span>
+<span id="cb6-28"><a href="#cb6-28" aria-hidden="true" tabindex="-1"></a>             <span class="at">linetype =</span> <span class="st">"dashed"</span>, <span class="at">color =</span> <span class="st">"black"</span>, <span class="at">alpha =</span> <span class="fl">0.5</span>) <span class="sc">+</span></span>
+<span id="cb6-29"><a href="#cb6-29" aria-hidden="true" tabindex="-1"></a>  <span class="fu">labs</span>(</span>
+<span id="cb6-30"><a href="#cb6-30" aria-hidden="true" tabindex="-1"></a>    <span class="at">title =</span> <span class="st">"The Dan Campbell Transformation (2021-2024)"</span>,</span>
+<span id="cb6-31"><a href="#cb6-31" aria-hidden="true" tabindex="-1"></a>    <span class="at">subtitle =</span> <span class="st">"Lions offensive and defensive efficiency compared to NFL average. Top-right = elite teams, bottom-left = struggling teams."</span>,</span>
+<span id="cb6-32"><a href="#cb6-32" aria-hidden="true" tabindex="-1"></a>    <span class="at">x =</span> <span class="st">"Offensive Efficiency (Points Scored Per Game)"</span>,</span>
+<span id="cb6-33"><a href="#cb6-33" aria-hidden="true" tabindex="-1"></a>    <span class="at">y =</span> <span class="st">"Defensive Efficiency (Inverse Points Allowed)"</span>,</span>
+<span id="cb6-34"><a href="#cb6-34" aria-hidden="true" tabindex="-1"></a>    <span class="at">caption =</span> <span class="st">"Source: nflverse | Higher on Y-axis = Better Defense"</span></span>
+<span id="cb6-35"><a href="#cb6-35" aria-hidden="true" tabindex="-1"></a>  ) <span class="sc">+</span></span>
+<span id="cb6-36"><a href="#cb6-36" aria-hidden="true" tabindex="-1"></a>  <span class="fu">theme_minimal</span>() <span class="sc">+</span></span>
+<span id="cb6-37"><a href="#cb6-37" aria-hidden="true" tabindex="-1"></a>  <span class="fu">theme</span>(</span>
+<span id="cb6-38"><a href="#cb6-38" aria-hidden="true" tabindex="-1"></a>    <span class="at">plot.title =</span> <span class="fu">element_text</span>(<span class="at">size =</span> <span class="dv">16</span>, <span class="at">face =</span> <span class="st">"bold"</span>),</span>
+<span id="cb6-39"><a href="#cb6-39" aria-hidden="true" tabindex="-1"></a>    <span class="at">plot.subtitle =</span> <span class="fu">element_text</span>(<span class="at">size =</span> <span class="dv">10</span>),</span>
+<span id="cb6-40"><a href="#cb6-40" aria-hidden="true" tabindex="-1"></a>    <span class="at">axis.title =</span> <span class="fu">element_text</span>(<span class="at">size =</span> <span class="dv">9</span>),</span>
+<span id="cb6-41"><a href="#cb6-41" aria-hidden="true" tabindex="-1"></a>    <span class="at">panel.grid.minor =</span> <span class="fu">element_blank</span>()</span>
+<span id="cb6-42"><a href="#cb6-42" aria-hidden="true" tabindex="-1"></a>  )</span></code><button title="Copy to Clipboard" class="code-copy-button"><i class="bi"></i></button></pre></div>
 </details>
 <div class="cell-output-display">
 <div>
@@ -350,6 +374,8 @@ pre > code.sourceCode > span > a:first-child::before { text-decoration: underlin
 </div>
 </div>
 </div>
+<p>These graphs show the Lions offensive and defensive efficiency pre and post Dan Campbell. The difference is obvious and truly astounding. Before Campbell, the Lions were consistently one of the worst teams on offense and defense. After, it changed for the better. Every season under Campbell, the Lions improved on both sides of the ball, which ultimately led to more wins.</p>
+<p>How exactly did this happen though. How was Campbell able to turn around a franchise that had only won one playoff game in 54 years. I decided to dive deeper into how he was able to do this. The first thing I wanted to look at was the rushing attack, as Campbell wanted to begin his rebuild in the trenches.</p>
 
 
 

diff --git a/index.html b/index.html
@@ -209,7 +209,7 @@ window.Quarto = {
 
 <div class="quarto-listing quarto-listing-container-default" id="listing-listing">
 <div class="list quarto-listing-default">
-<div class="quarto-post image-right" data-index="0" data-categories="All,Football,NFL,Coaching" data-listing-date-sort="NaN" data-listing-file-modified-sort="1764630331163" data-listing-date-modified-sort="NaN" data-listing-reading-time-sort="5" data-listing-word-count-sort="873">
+<div class="quarto-post image-right" data-index="0" data-categories="All,Football,NFL,Coaching" data-listing-date-sort="NaN" data-listing-file-modified-sort="1764631622662" data-listing-date-modified-sort="NaN" data-listing-reading-time-sort="6" data-listing-word-count-sort="1151">
 <div class="thumbnail">
 <p><a href="./posts/DetroitLions/index.html" class="no-external"></a></p><a href="./posts/DetroitLions/index.html" class="no-external">
 <p><img loading="lazy" src="./posts/DetroitLions/image.png" class="thumbnail-image"></p>
